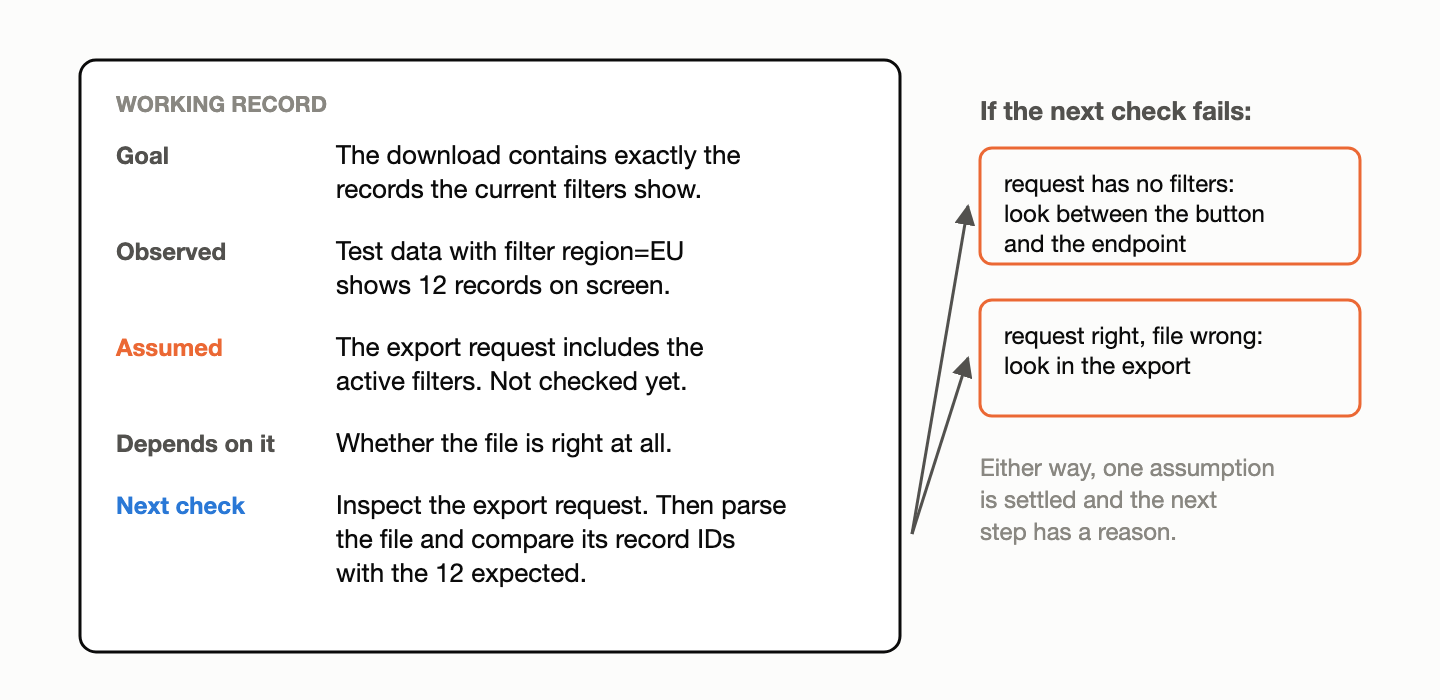
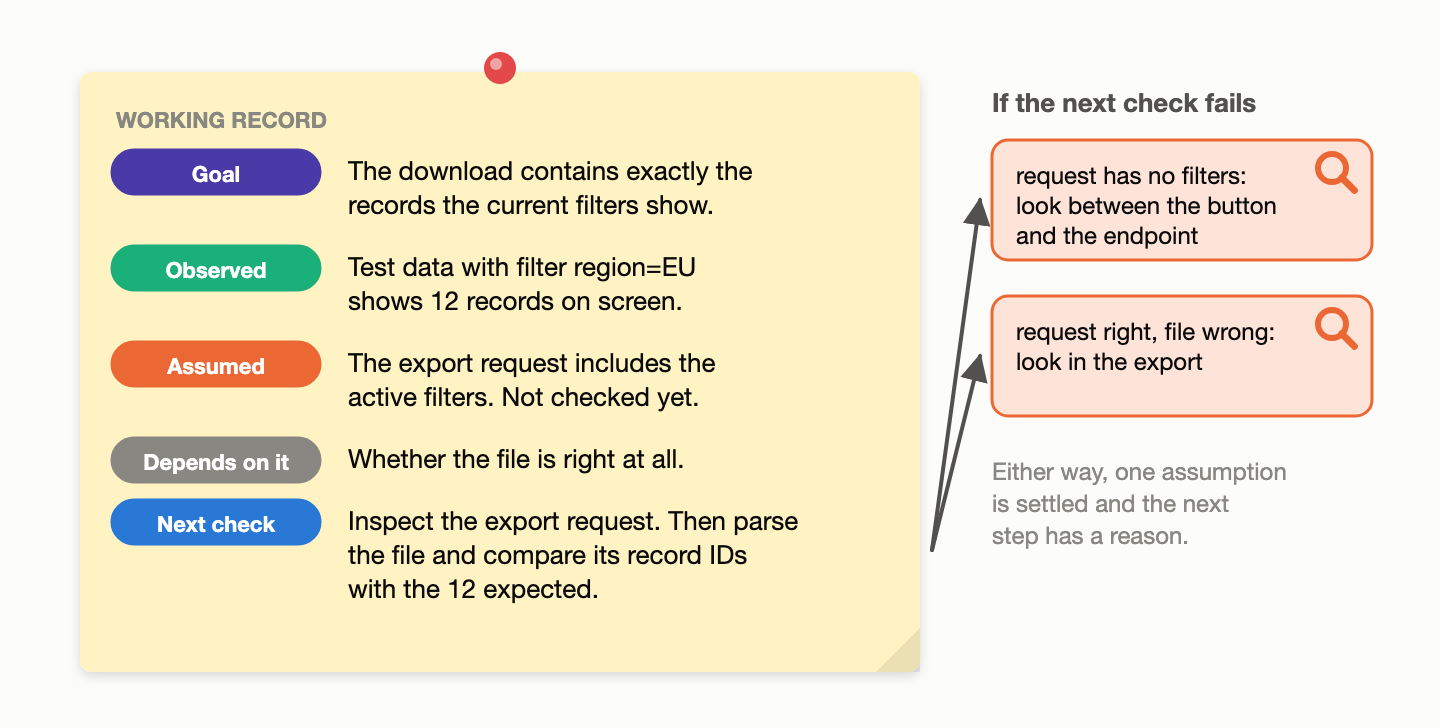
Why Agents Skip Steps: redrawn figures, commentary captions, new sections
Figures redrawn in one illustrated style (cards, sticky notes, terminal,
robot, browser window, badges). Captions are commentary or absent; alt
text describes. New figures for the asked-versus-wanted gap and the
design-versus-check split. The colleague's pushback and the remake are
their own sections. Adds the Jev note, the project-tracker mention, and
the joke prompt in the task list.

diff --git a/_posts/2026-10-09-why-agents-skip-steps.md b/_posts/2026-10-09-why-agents-skip-steps.md
@@ -10,7 +10,6 @@ image: /assets/images/20261009/social.png
 
 <figure>
   <img src="/assets/images/20261009/banner.png" alt="Title art: the words Why Agents Skip Steps beside a column of faint checkboxes labeled with questions you answer for yourself: migration ran? server up? column exists? which emulator config?">
-  <figcaption>Title art: a checklist of the questions you answer for yourself while you work.</figcaption>
 </figure>
 
 In [my last post]({% post_url 2026-10-02-bug-hunting-in-retro-games %}), an
@@ -50,6 +49,8 @@ at how people write tasks for agents:
 - Hook the API up to the database.
 - Make the checkout page look better on mobile.
 - Clean up my downloads folder.
+- You are a senior engineer who never makes mistakes and checks everything
+  before starting. Hook the API up to the database.
 
 Each one describes a change. None says what the current state is, or how
 anyone would know the change worked. The person writing it might know both
@@ -58,7 +59,7 @@ what they want, and that's what goes on the card.
 
 <figure>
   <img src="/assets/images/20261009/01-handoff.png" alt="Diagram: a task card that says Hook the API up to the database is handed to an agent. Above the person, a thought cloud holds the facts that are not on the card: the DB is up, the migration might not have run, port 3000, the legacy tests fail on purpose.">
-  <figcaption>Diagram: the request card carries the change; the facts you'd check it against stay in the thought cloud.</figcaption>
+  <figcaption>Port 3000 and the migration never make it onto the card.</figcaption>
 </figure>
 
 An agent can't look unless you gave it something to look with. So the request
@@ -98,6 +99,14 @@ wrote a moment ago. Research from 2024 on self-correction found that without
 outside feedback, models often don't improve and sometimes get worse. With
 reliable feedback, an error message or a test result, self-correction works.
 
+The same limit holds at the other end of the speed range. TypeSafe AI's Jev,
+launched in September, is a System One model: hand it a state and a typed
+question and it returns a decision with a probability in one pass, no prose,
+no reasoning. That's useful for routing and triage, and the probability isn't
+evidence that the decision was right. It's the model's assessment of itself,
+which is the thing that can't be trusted without outside input. A fast
+decision still needs a check from outside the model.
+
 Put those together: the context window is the agent's working memory. If a
 fact isn't in it, the agent guesses or goes and gets it. Reasoning can tell
 it what should have happened. Only observation tells it what did. Compiler
@@ -107,7 +116,7 @@ true.
 
 <figure>
   <img src="/assets/images/20261009/03-two-loops.png" alt="Three rows. You: idea, change, compare against what you know and what you see, next. Agent: idea, change, done? with nothing to compare against. Agent with checks: idea, change, run or look, write down what is now known, next.">
-  <figcaption>Diagram of the three loops. The middle row is the default when a request only describes the change.</figcaption>
+  <figcaption>The middle row is what you get when the request only describes the change.</figcaption>
 </figure>
 
 Unchecked assumptions get expensive because later work depends on them. If an
@@ -148,7 +157,7 @@ browser.
 
 <figure>
   <img src="/assets/images/20261009/04-scaffolding.png" alt="Timeline across three Opus releases. Scaffolding blocks drop away one by one: forced context resets, rigid sprint plans, explicit verification instructions. One block stays across all three: a separate evaluator with a real browser.">
-  <figcaption>What was removed and what was kept, from Anthropic's harness experiments (March 2026) and the Opus 5 prompting guide.</figcaption>
+  <figcaption>Each release let more scaffolding go. The browser never left.</figcaption>
 </figure>
 
 Meta tried the other route, training its Code World Model on 120 million
@@ -190,6 +199,8 @@ The limits: the model still has to turn the signal into a fix, a wrong checker s
 can cost more than one good one. Within those limits, a loop built for a
 smaller or local model is the cheapest upgrade available.
 
+## A check can't tell you what you wanted
+
 A colleague who runs these things all day pushes back on this. In his view,
 loops and goals are crutches, a way of failing upward at a cost, and the real
 work is the design up front. His plans read like hand-held pseudocode where
@@ -206,12 +217,20 @@ design says what you want; the check says whether you got it. A check written
 from a vague request confirms a vague result, which is why the checks have to
 come from the requirement, and why the requirement has to be written down.
 
+<figure>
+  <img src="/assets/images/20261009/10-design-check.png" alt="Two boxes. The design says what you want: data model, state model, which algorithm where. The check says whether you got it, written from the requirement, not the code. An arrow from the design to the check labeled checks come from here. Below: a loop that runs until the check passes gives you what you asked for; the design is the only thing that says whether that was what you wanted.">
+</figure>
+
 The newer frontier models are very good at solving things with no direction,
 and that's most of their appeal: one-shot builds, changes to existing code,
 long runs of work from a vague instruction. The cost is that more gets
 assumed. Every requirement I didn't write down gets filled in by the model's
 judgment, and the work is finished before I see any of it. The gap is between
 the work it did and the work I wanted, and a passing check doesn't close it.
+
+## The remake, and the overhaul I never specified
+
+<!-- art slot: an AI-generated 2.5D action-game scene (a retro arcade stage reimagined with depth, lighting and parallax) goes here as a <figure>; see fable-take.md for the prompt. -->
 
 My remake is the example. It was mostly built with frontier models, but not
 from a prompt that said port this game. I gave them an emulator and a working
@@ -221,6 +240,11 @@ knew it: cross-platform, exports to HTML, easy to build with. Inside that
 frame the models did a lot of good work. Then I asked for a 2.5D graphical
 overhaul with no requirements, because I didn't have any. The models
 extruded 3D geometry out of the 2D sprites. It was horrible.
+
+<figure>
+  <img src="/assets/images/20261009/09-asked-wanted.png" alt="Diagram of the 2.5D request. In the person's head, a sticky note says what I wanted: looks like a studio with a budget reimagined it, with art direction, pipeline and tooling marked as never written down. The task card says 2.5D graphical overhaul. The agent returns a card showing the flat pixel sprite next to the same sprite extruded into blocks, marked done with a check and wanted with a question mark.">
+  <figcaption>Every check passed. The sprite got thicker.</figcaption>
+</figure>
 
 To get what a studio with a budget would produce, I'd have to supply the
 tooling, the direction, and a production pipeline for turning a retro game
@@ -249,7 +273,7 @@ would settle the assumption the next step depends on.
 
 <figure>
   <img src="/assets/images/20261009/06-working-record.png" alt="A working record for adding a download CSV button to a filtered dashboard. Goal: the download contains exactly the records the current filters show. Observed: test dataset with filter region=EU shows 12 records. Assumed, not checked: the export request includes the active filters. Depends on it: everything about whether the file is right. Next check: inspect the export request, then parse the file and compare its record IDs with the 12 expected. Two arrows from a mismatch: no filters in the request points at the button-to-endpoint path; request right but file wrong points at the export.">
-  <figcaption>The working record for the CSV export task, with the two places a failed check points.</figcaption>
+  <figcaption>Without this, the next move after a wrong file is "try something else."</figcaption>
 </figure>
 
 Without the record, a wrong file sends the agent through unrelated fixes:
@@ -265,6 +289,14 @@ back to assumed.
 
 This record is the external working memory. Logs and test output are raw
 observations. The record holds what they mean for the task.
+
+I keep a skill for this,
+[project-tracker](https://github.com/batteryshark/skill-tap/tree/main/skills/productivity/project-tracker):
+one Markdown dashboard per project with the current objective, status,
+attempts, decisions, open questions, and next actions, with observed facts
+kept separate from theories and unknowns. I'm not pitching it. It's a
+collection of the things I kept finding myself tracking in larger projects,
+iterated on now and then, and it has been useful on the bigger ones.
 
 ## Checks are not only tests
 
@@ -287,7 +319,7 @@ shows the agent a difference that it couldn't have predicted from the code.
 
 <figure>
   <img src="/assets/images/20261002/01-same-inputs.png" alt="Two rows of screenshots from Parasol Stars round 1-5 at 10, 25 and 50 seconds. With a TurboTap the triangle enemies stay inside their brick maze; with one pad they leak out through the walls.">
-  <figcaption>Same save state, same input, one configuration change, seen through the comparison harness.</figcaption>
+  <figcaption>Same save state, same input. One controller port's worth of difference.</figcaption>
 </figure>
 
 The same idea works away from code. Reorganizing 8,000 photos: write a
@@ -314,7 +346,7 @@ proves the setting changed, not that you can hear anything.
 
 <figure>
   <img src="/assets/images/20261009/07-scope.png" alt="Three pairs. What the check proves versus what you wanted to know: the file downloaded versus the right records downloaded; the document saved versus the document is correct; the output device changed versus you can hear sound.">
-  <figcaption>Three passing checks, each shown next to the question it doesn't answer.</figcaption>
+  <figcaption>All three pass. None of them answers the question you had.</figcaption>
 </figure>
 
 The worst case is a check written from the same misunderstanding as the code.
@@ -493,7 +525,7 @@ twelve, and came last at picking out the most expensive method or line.
 
 <figure>
   <img src="/assets/images/20261009/02-real-code.png" alt="Bar chart of the share of failing tests each model caught when predicting test outcomes on real repository code: gpt-5.5 73.5%, gpt-oss-120b 49.5%, gpt-5-mini 39.5%, claude-sonnet-4-6 39%, claude-opus-4-7 34.5%, Qwen3.5-397B 32%, gpt-5.2 27%, gpt-5.4 23.5%, CWM 21%, claude-haiku-4-5 18.5%, Qwen3-235B 8%, Qwen3-30B 2.5%.">
-  <figcaption>Share of failing tests caught when asked to predict test outcomes for real repository code, June 2026. Data from Towards Evaluation of Implicit Software World Models in Coding LLMs.</figcaption>
+  <figcaption>Twelve models, 435 cases from SWE-bench Verified, June 2026. Data from Towards Evaluation of Implicit Software World Models in Coding LLMs.</figcaption>
 </figure>
 
 ### A2. My lookahead run
@@ -518,7 +550,7 @@ still fails a third of the time at ten lines.
 
 <figure>
   <img src="/assets/images/20261009/08-local-lookahead.png" alt="Grouped bar chart. Qwen3.8-27B, exact state predicted n executed lines ahead. Reasoning off: 1 line 70%, 3 lines 20%, 5 lines 3%, 10 lines 0%. Reasoning on at low effort: 100%, 100%, 92%, 67%.">
-  <figcaption>Exact-match accuracy by lookahead horizon, reasoning off (120 prompts) and reasoning on at low effort (49 prompts). My run, October 2026.</figcaption>
+  <figcaption>Reasoning off, 120 prompts; reasoning on at low effort, 49 prompts. My run, October 2026.</figcaption>
 </figure>
 
 Limits: synthetic code, one model, one quantization, one run per prompt, and
@@ -587,7 +619,9 @@ two generations gone; the result has held up.
 [Large Language Models Cannot Self-Correct Reasoning Yet](https://arxiv.org/abs/2310.01798)
 (ICLR 2024) and Kamoi et al.,
 [When Can LLMs Actually Correct Their Own Mistakes?](https://aclanthology.org/2024.tacl-1.78)
-(TACL 2024). ReAct: [Yao et al.](https://arxiv.org/abs/2210.03629) (2022).
+(TACL 2024). Jev: TypeSafe AI,
+[Introducing System One Models & Jev](https://typesafe.ai/blog/introducing-system-one-models-and-jev)
+(September 2026). ReAct: [Yao et al.](https://arxiv.org/abs/2210.03629) (2022).
 Opus 5 examples and guidance:
 [Introducing Claude Opus 5](https://www.anthropic.com/news/claude-opus-5) and
 [Prompting Claude Opus 5](https://platform.claude.com/docs/en/build-with-claude/prompt-engineering/prompting-claude-opus-5).
